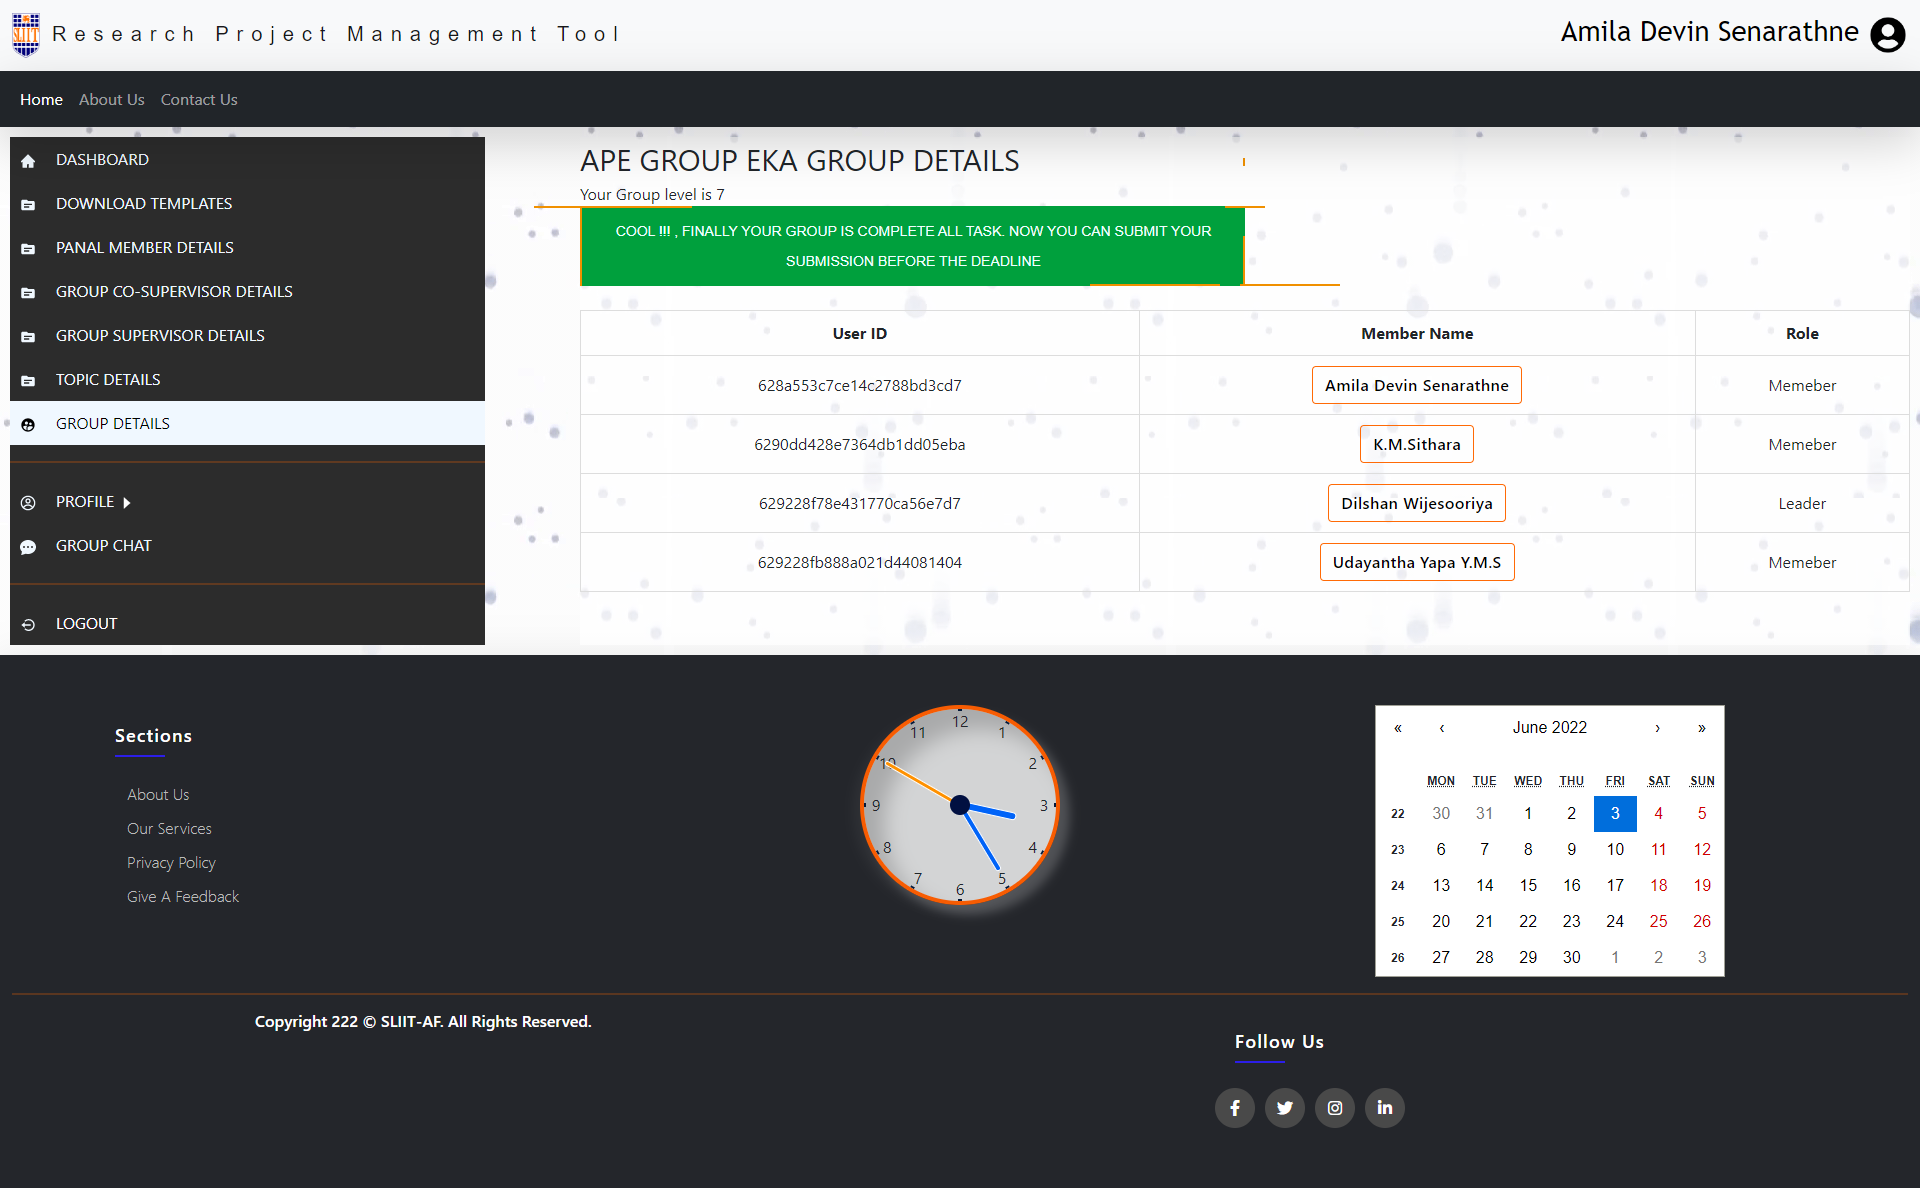
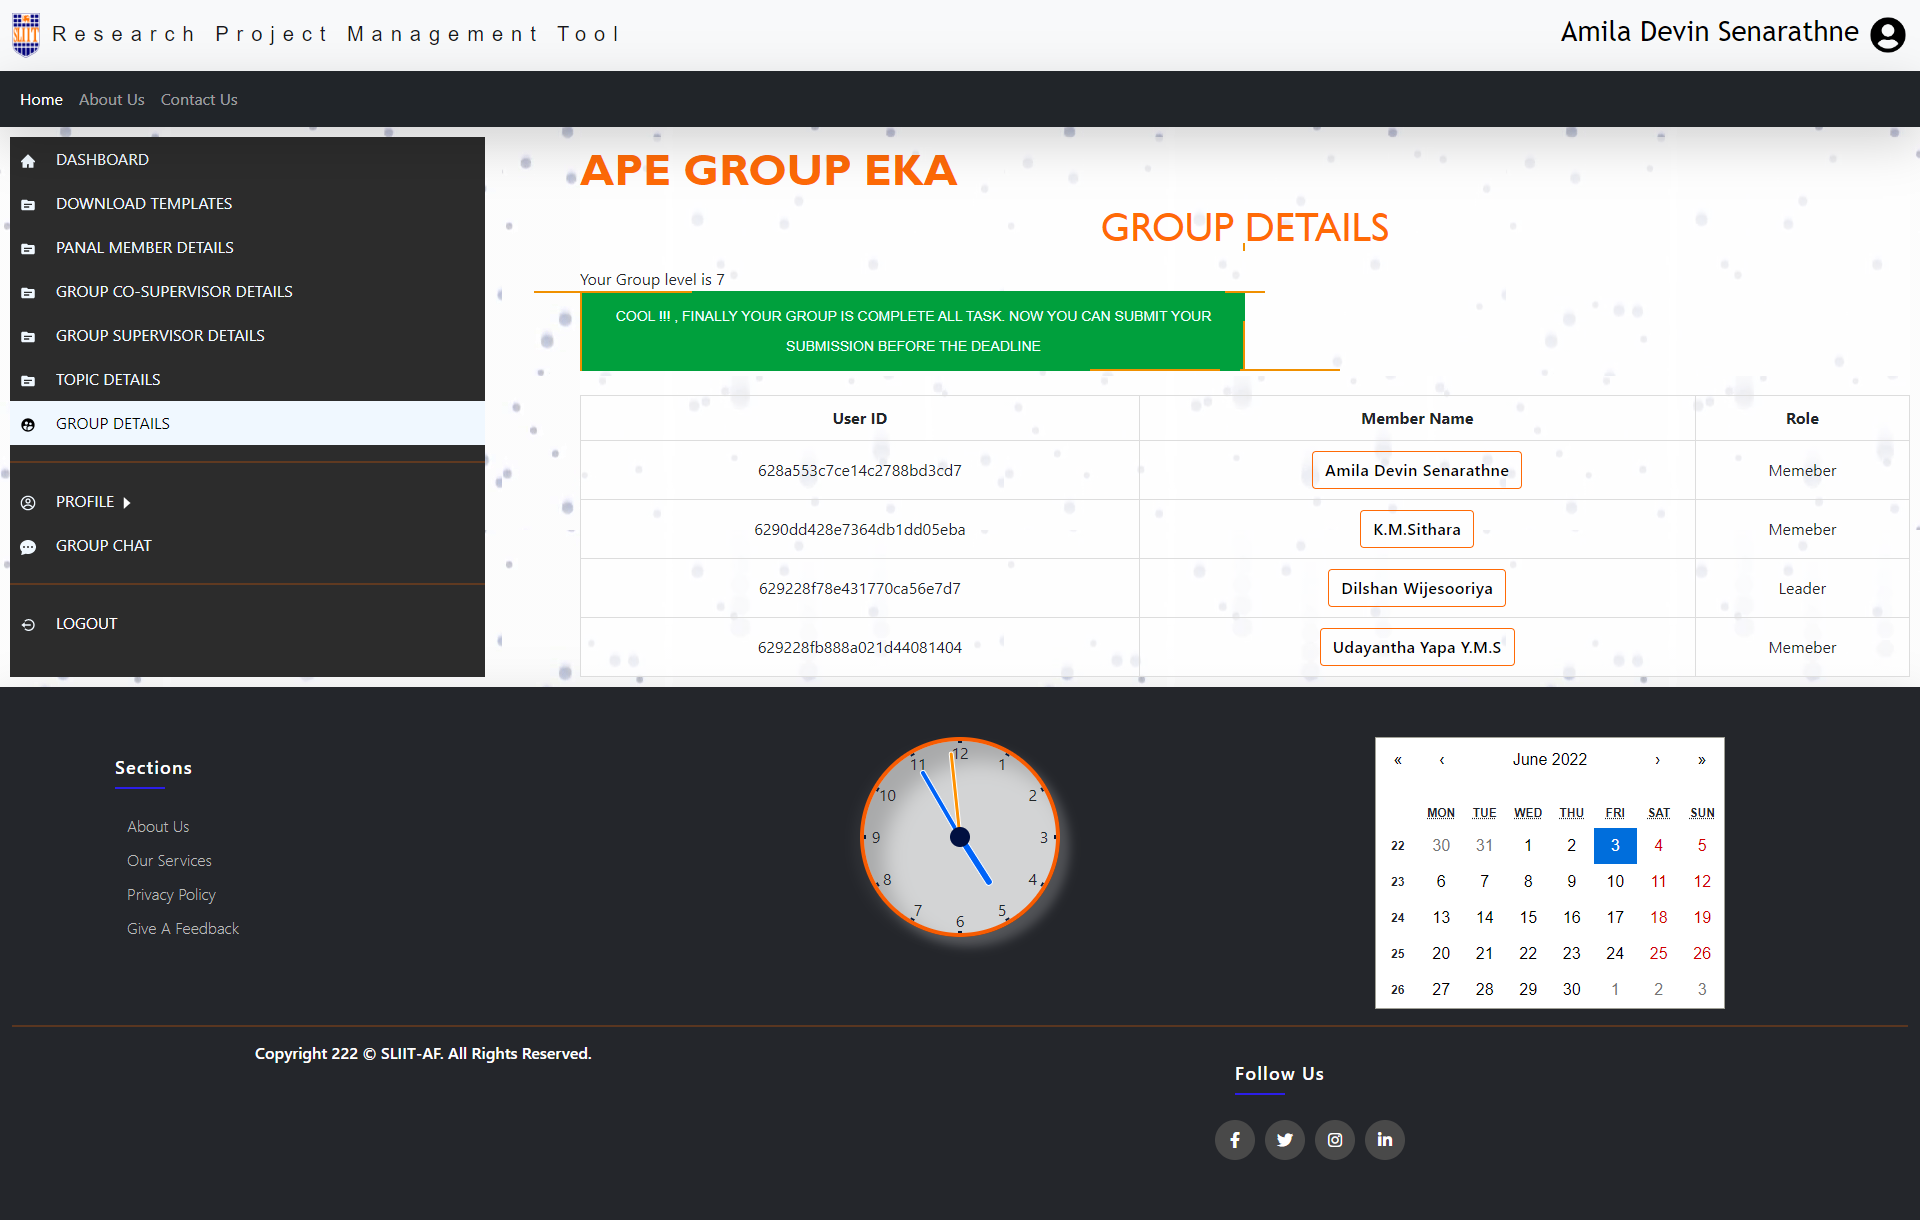
ss

diff --git a/client/src/components/Student/StudentGroupDetails/StudentGroupDetails.jsx b/client/src/components/Student/StudentGroupDetails/StudentGroupDetails.jsx
@@ -4,7 +4,7 @@ import './groupDetails.scss'
 const StudentGroupDetails = ({groupData}) => {
   return (
       <>
-      <div className='GDtopic'>{groupData.groupName.toUpperCase()} GROUP DETAILS</div>
+      <div className='GDtopic Dash'>{groupData.groupName.toUpperCase()} <div className="Dash"> <h1>Group DETAILS</h1></div></div>
         <div>Your Group level is {groupData.level}</div>
         <div className='steps'>
             <span className="line-1"></span>
